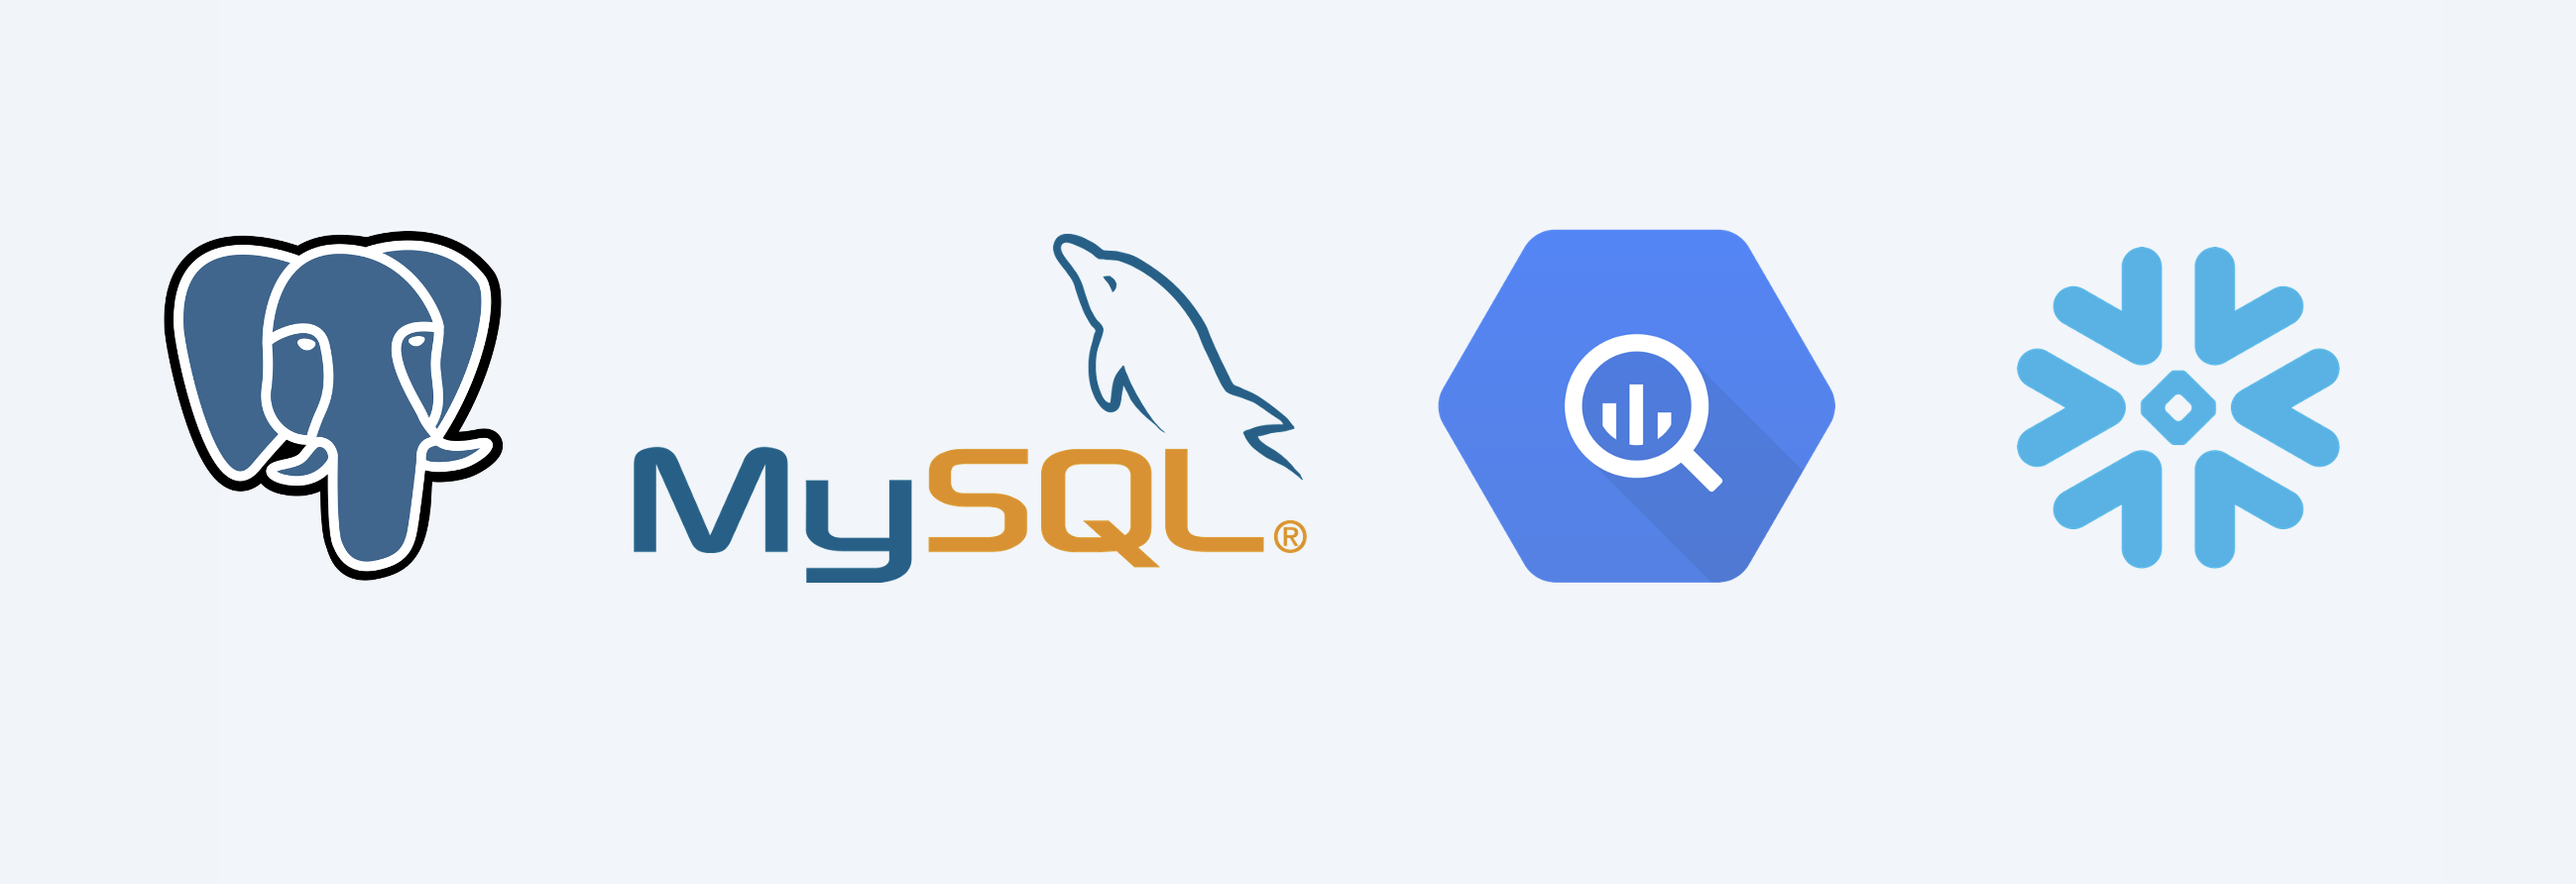
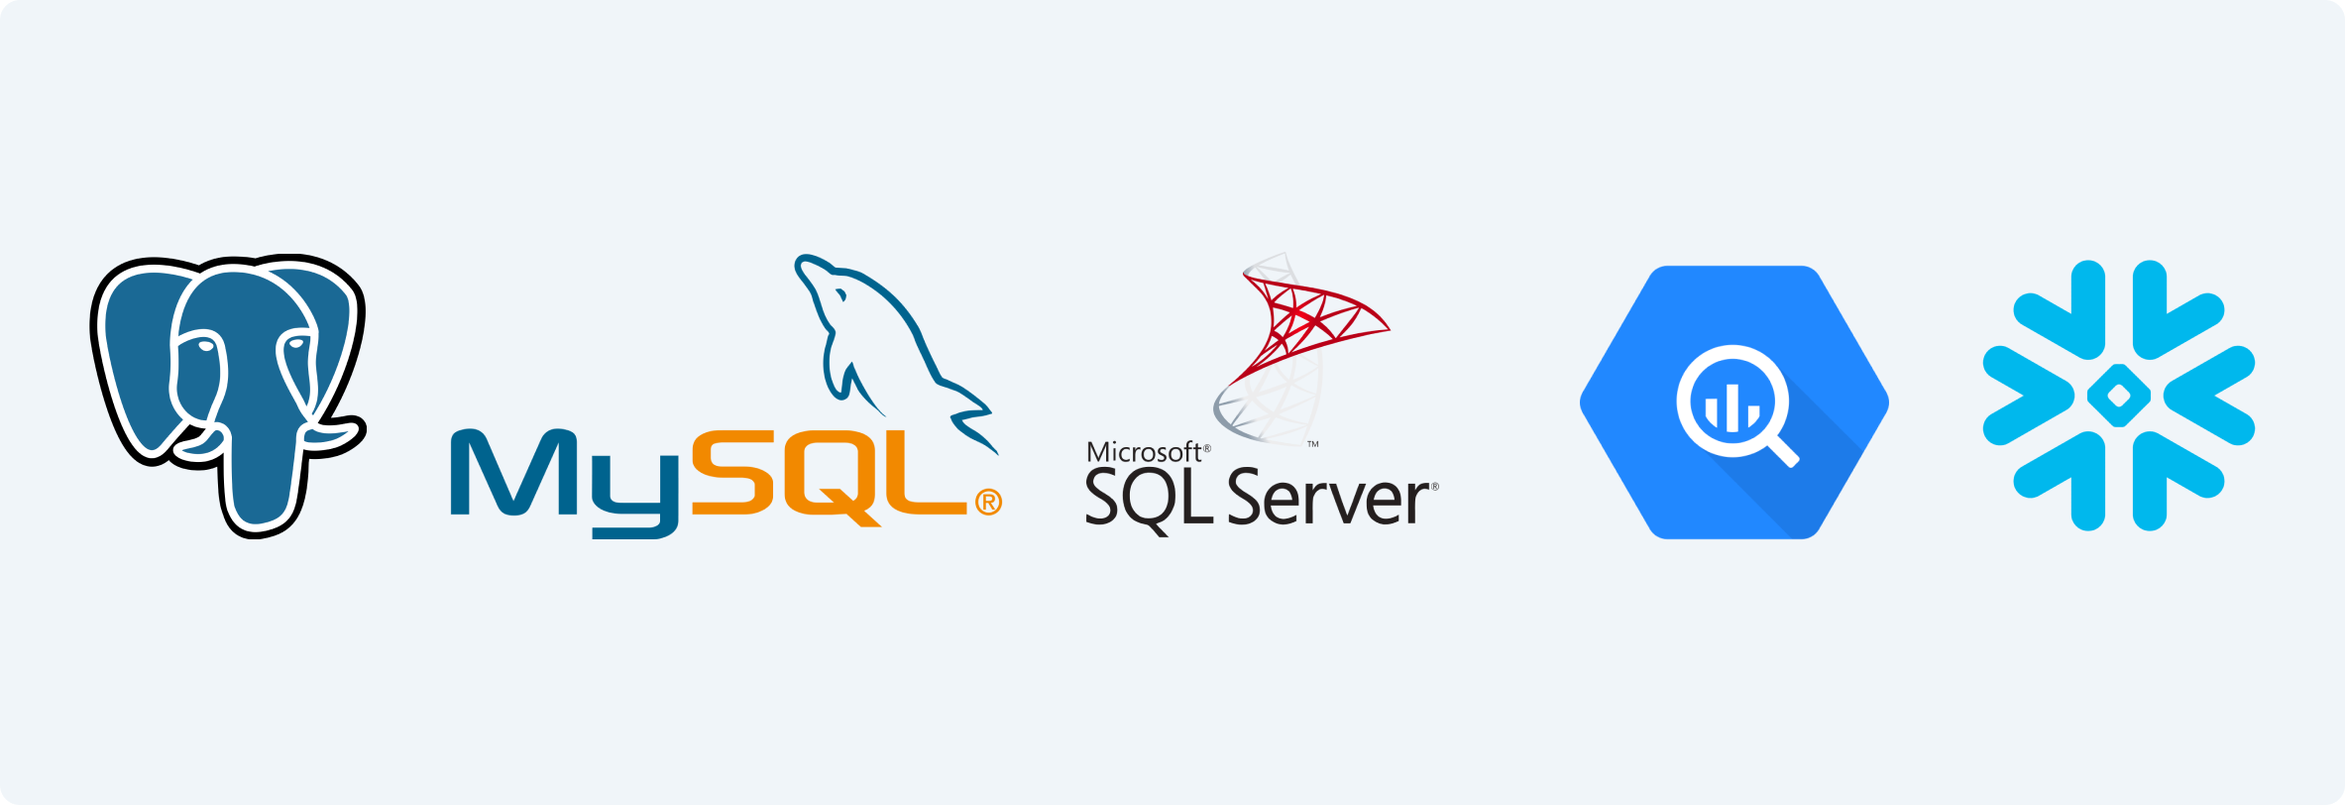
Mssql and app report

Changed region(s): [[0.0309, 0.2463, 0.9873, 0.6773]]

diff --git a/src/landing/IntergrationList.jsx b/src/landing/IntergrationList.jsx
@@ -7,6 +7,7 @@ import {
 	SiLinkedin,
 	SiMatrix,
 	SiMysql,
+	SiMicrosoftsqlserver,
 	SiOpenai,
 	SiTelegram,
 	SiToggl,
@@ -16,6 +17,7 @@ import {
 const integrations = [
 	{ name: 'PostgreSQL', src: 'third_party_logos/postgres.svg' },
 	{ name: 'MySQL', src: 'third_party_logos/mysql.svg', Icon: SiMysql },
+	{ name: 'MSSQL', src: 'third_party_logos/msssql.svg', Icon: SiMicrosoftsqlserver },
 	{ name: 'BigQuery', src: 'third_party_logos/bigquery.svg' },
 	{ name: 'Snowflake', src: 'third_party_logos/snowflake.svg'},
 	{ name: 'GitHub', src: 'third_party_logos/github.svg', Icon: SiGithub },
@@ -79,7 +81,7 @@ export default function IntergrationList() {
                             ' hover:bg-gray-100 dark:hover:bg-gray-700 dark:bg-gray-800'
                         )}
                         href={
-							(item.name === 'PostgreSQL' || item.name === 'MySQL' || item.name === 'BigQuery' || item.name === 'Snowflake') ?
+							(item.name === 'PostgreSQL' || item.name === 'MySQL' || item.name === 'BigQuery' || item.name === 'MSSQL' || item.name === 'Snowflake') ?
                             '/docs/getting_started/scripts_quickstart/sql' :
                             `/docs/integrations/${item.name
                                 .toLowerCase()

diff --git a/sidebars.js b/sidebars.js
@@ -61,7 +61,7 @@ const sidebars = {
 						{
 							type: 'doc',
 							id: 'getting_started/scripts_quickstart/sql_quickstart/index',
-							label: 'PgSQL / MySQL / BigQuery / Snowflake'
+							label: 'SQL & Query languages'
 						},
 						{
 							type: 'doc',
@@ -216,6 +216,7 @@ const sidebars = {
 						'apps/app_debugging',
 						'apps/app_deployment',
 						'apps/public_apps',
+						'apps/schedule_reports',
 						'apps/app_configuration_settings/components_groups',
 						'apps/react_components',
 						'apps/app_e-commerce'
@@ -510,6 +511,11 @@ const sidebars = {
 							type: 'doc',
 							id: 'integrations/mongodb',
 							label: 'MongoDB'
+						},
+						{
+							type: 'doc',
+							id: 'integrations/mssql',
+							label: 'MSSQL'
 						},
 						{
 							type: 'doc',

diff --git a/src/landing/ScriptSection.tsx b/src/landing/ScriptSection.tsx
@@ -118,11 +118,11 @@ const tabs = [
 				altText: 'Write scripts in Rest & GraphQL'
 			},
 			{
-				title: 'PostgreSQL / MySQL / BigQuery / Snowflake',
+				title: 'PostgreSQL / MSSQL / MySQL / BigQuery / Snowflake',
 				icon: Database,
-				caption: <div>Script in <a href="/docs/getting_started/scripts_quickstart/sql" target="_blank">PostgreSQL / MySQL / BigQuery / Snowflake</a>.</div>,
+				caption: <div>Script in <a href="/docs/getting_started/scripts_quickstart/sql" target="_blank">PostgreSQL, MySQL, MSSQL, BigQuery, Snowflake</a>.</div>,
 				imageSrc: '/images/sql-code.png',
-				altText: 'Write scripts in PostgreSQL / MySQL / BigQuery / Snowflake'
+				altText: 'Write scripts in PostgreSQL, MySQL, MSSQL, BigQuery, Snowflake'
 			},
 		]
 	},

diff --git a/src/components/pricing/PricingFAQ.js b/src/components/pricing/PricingFAQ.js
@@ -70,7 +70,7 @@ const faqs = [
 		answer: (
 			<span>
 				A "native" worker is a normal worker that listens solely for "native" jobs: PostgreSQL,
-				MySQL, BigQuery, Snowflake, REST which are implemented in windmill natively in our Rust
+				MySQL, MSSQL, BigQuery, Snowflake, REST which are implemented in windmill natively in our Rust
 				backend and thus those jobs have minimal memory footprint and are mostly IO bounds so
 				require little vCPUs. In a typical deployment, native workers have limits of 0.1 vCPU and
 				200Mb instead of the usual 1vCPU and 2Gb.

diff --git a/docs/flows/15_sleep.md b/docs/flows/15_sleep.md
@@ -17,7 +17,7 @@ Executions within a flow can be suspended for a given time.
 
 This feature is made to hold a flow **inside of it**. Based on your specific needs, you may want to utilize other features:
 
-- [Schedule the trigger](../core_concepts/1_scheduling/index.md) of a script or flow.
+- [Schedule the trigger](../core_concepts/1_scheduling/index.mdx) of a script or flow.
 - [Suspend a flow until a step is approved](./11_flow_approval.mdx).
 - [Retry](./14_retries.md) a step multiple times until it is successful.
 - [Early stop/Break](./2_early_stop.md) the flow if a step met a predicate expression.

diff --git a/docs/misc/0_note_of_intent/index.md b/docs/misc/0_note_of_intent/index.md
@@ -74,7 +74,7 @@ Windmill embeds:
 - **[webhooks](../../core_concepts/4_webhooks/index.mdx)** for every scripts and flows to
   be triggered externally and an open api to be easily embedded into your
   current infrastructure
-- a **[scheduler](../../core_concepts/1_scheduling/index.md)** to trigger Scripts and
+- a **[scheduler](../../core_concepts/1_scheduling/index.mdx)** to trigger Scripts and
   Flows. Combined with state storage, it can be used to watch for external
   events - for example triggering a Flow only if the external state is different
   from the one stored previously

diff --git a/docs/integrations/mssql.md b/docs/integrations/mssql.md
@@ -1,0 +1,7 @@
+# MSSQL Integration
+
+Windmill provides a framework to support MSSQL databsases, either with native SQL scripts or through TypeScript for raw queries.
+
+![Integration between MSSQL and Windmill](../assets/integrations/windmill_and_mssql.png 'Connect a MSSQL instance with Windmill')
+
+Please refer to the [SQL Getting Started section](../getting_started/0_scripts_quickstart/5_sql_quickstart/index.mdx).
